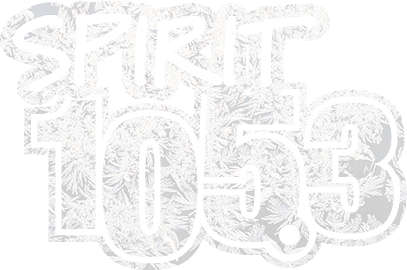
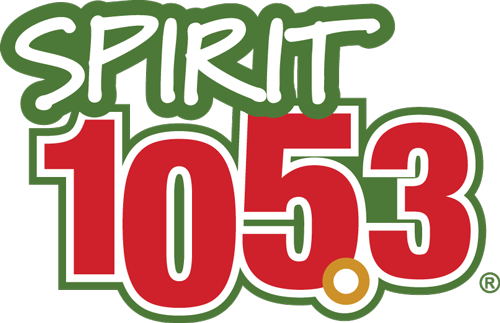
station updates

diff --git a/web/stations/stations-america.js b/web/stations/stations-america.js
@@ -17,8 +17,8 @@ var stations = {
         },
         {
             name: "K221BG 92.1",
-            logo: "stations/images-america/seattle/Spirit 105.3.png",
-            url: "http://crista-kcms.streamguys1.com/kcmsmp3"
+            logo: "stations/images-america/seattle/Spirit 105.3_christmas.png",
+            url: "https://crista-kcms.streamguys1.com/kcmsmp3"
         },
         {
             name: "KIX 95.3",
@@ -10399,8 +10399,8 @@ var stations = {
         },
         {
             name: "Spirit 105.3",
-            logo: "stations/images-america/seattle/Spirit 105.3.png",
-            url: "http://crista-kcms.streamguys1.com/kcmsmp3"
+            logo: "stations/images-america/seattle/Spirit 105.3_christmas.png",
+            url: "https://crista-kcms.streamguys1.com/kcmsmp3"
         },
         {
             name: "LIFT Radio 105.3-HD2",
@@ -13744,9 +13744,9 @@ var stations_c2c = {
             url: "https://atsradio.herokuapp.com/index.php?ats=https://playerservices.streamtheworld.com/api/livestream-redirect/WBHKFMAAC_SC"
         },
         {
-            name: "ALT 99.1",
-            logo: "stations/images-america/c2c/birmingham_al/ALT 99.1.png",
-            url: "https://stream.revma.ihrhls.com/zc6642/hls.m3u8"
+            name: "Way FM 99.1",
+            logo: "stations/images-america/0_general_logos/Way FM.png",
+            url: "http://wayfm.streamguys1.com/wayw.aac"
         },
         {
             name: "Talk 99.5",
@@ -13777,6 +13777,11 @@ var stations_c2c = {
             name: "103.7 The Q",
             logo: "stations/images-america/c2c/birmingham_al/103.7 The Q.png",
             url: "https://stream.revma.ihrhls.com/zc3093/hls.m3u8"
+        },
+        {
+            name: "ALT 103.7-HD3",
+            logo: "stations/images-america/c2c/birmingham_al/ALT 103.7-HD3.png",
+            url: "https://stream.revma.ihrhls.com/zc6642/hls.m3u8"
         },
         {
             name: "104.1 The Beat",
